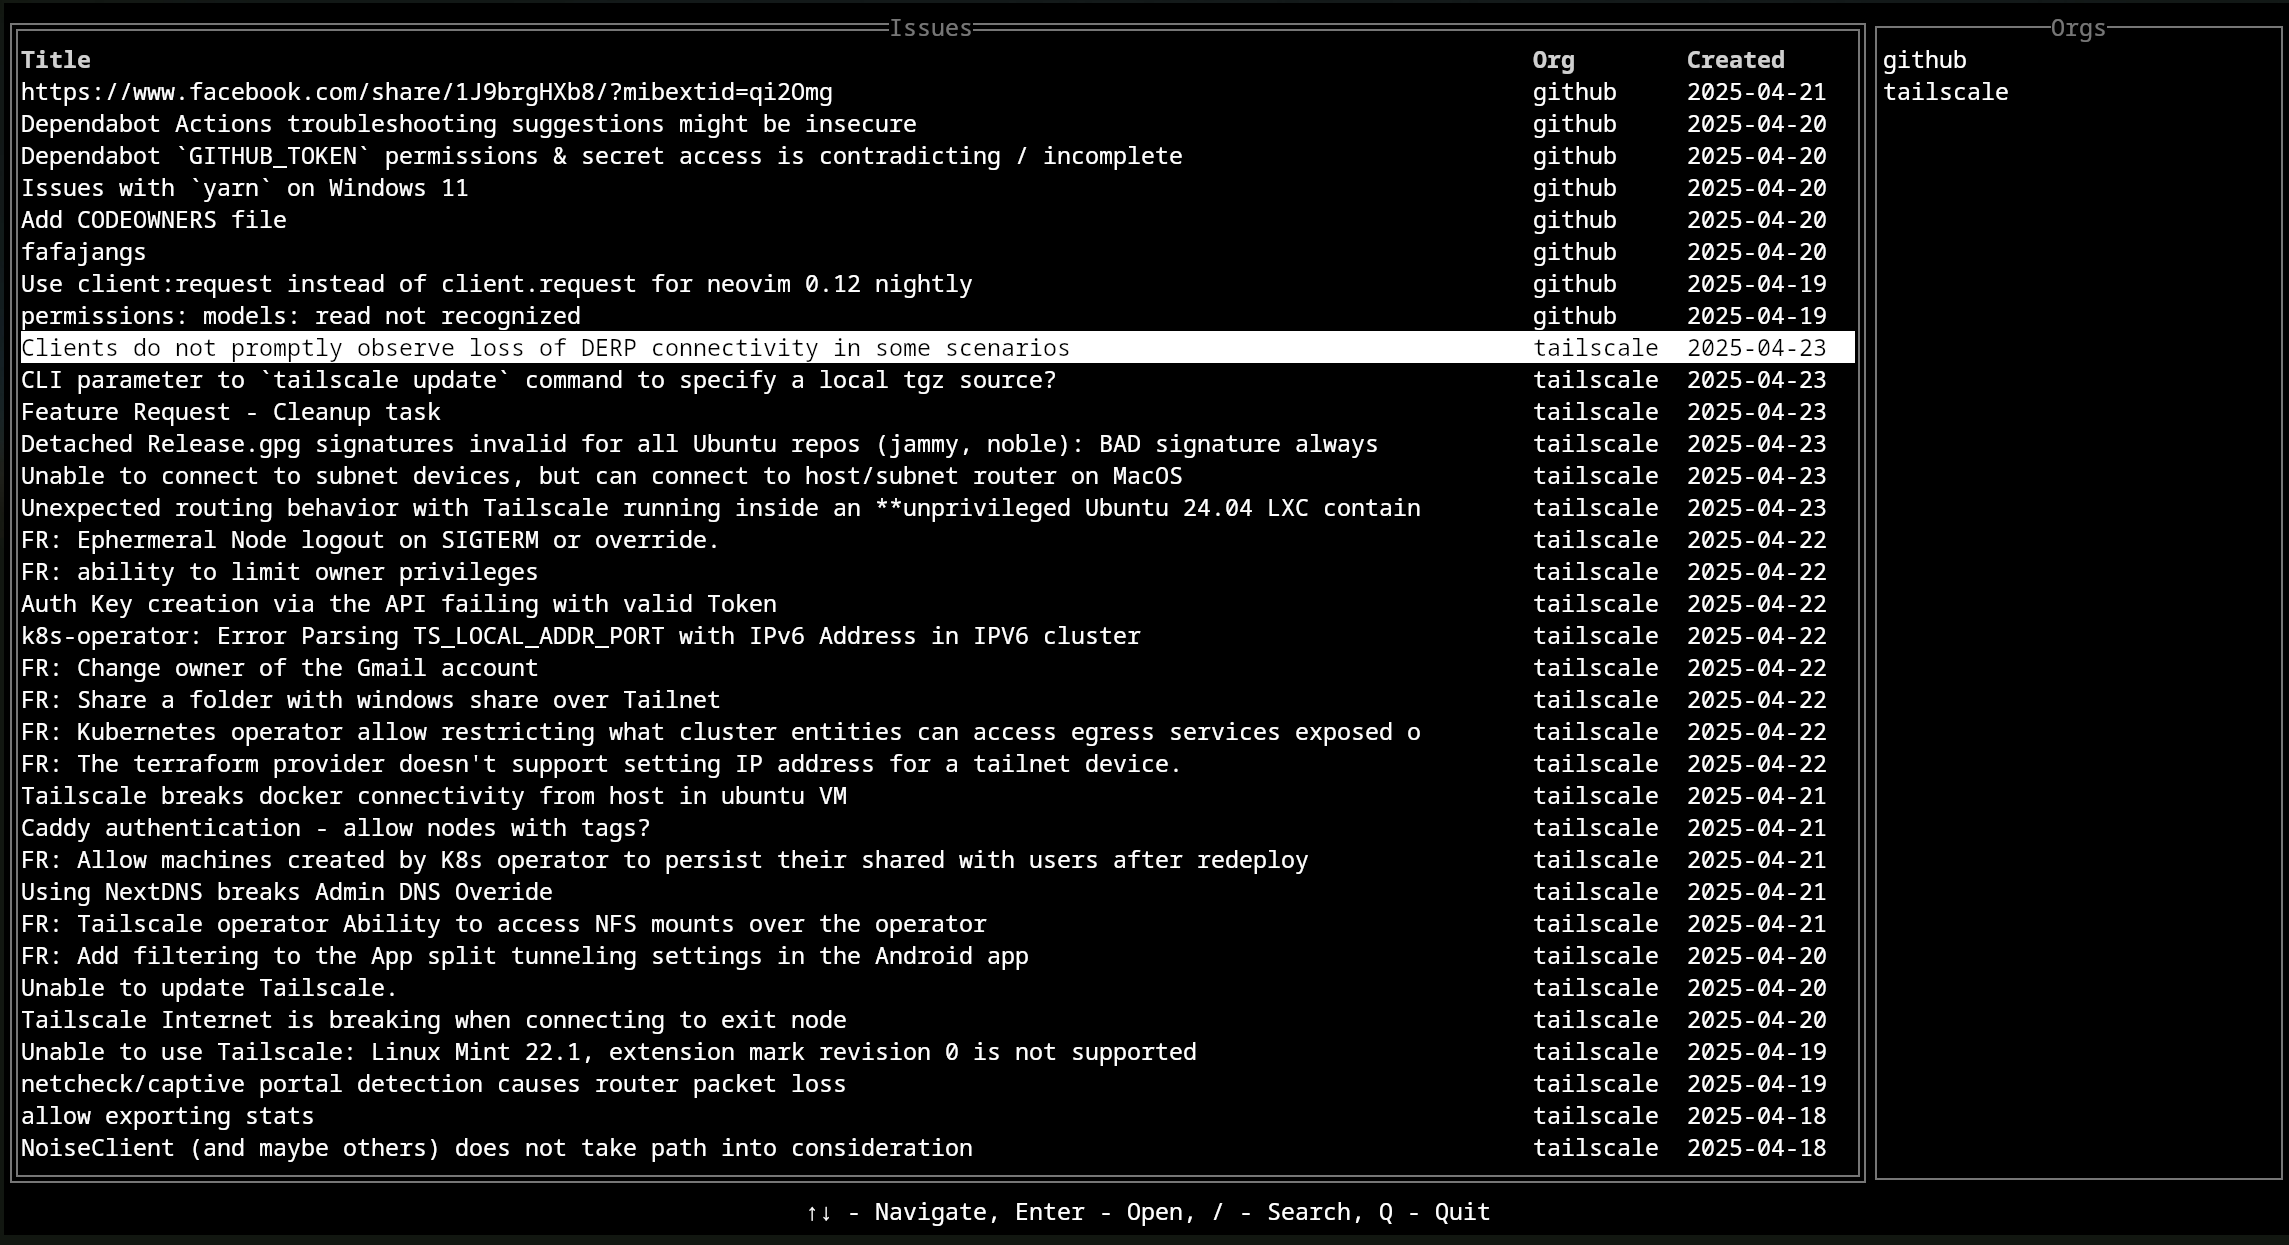
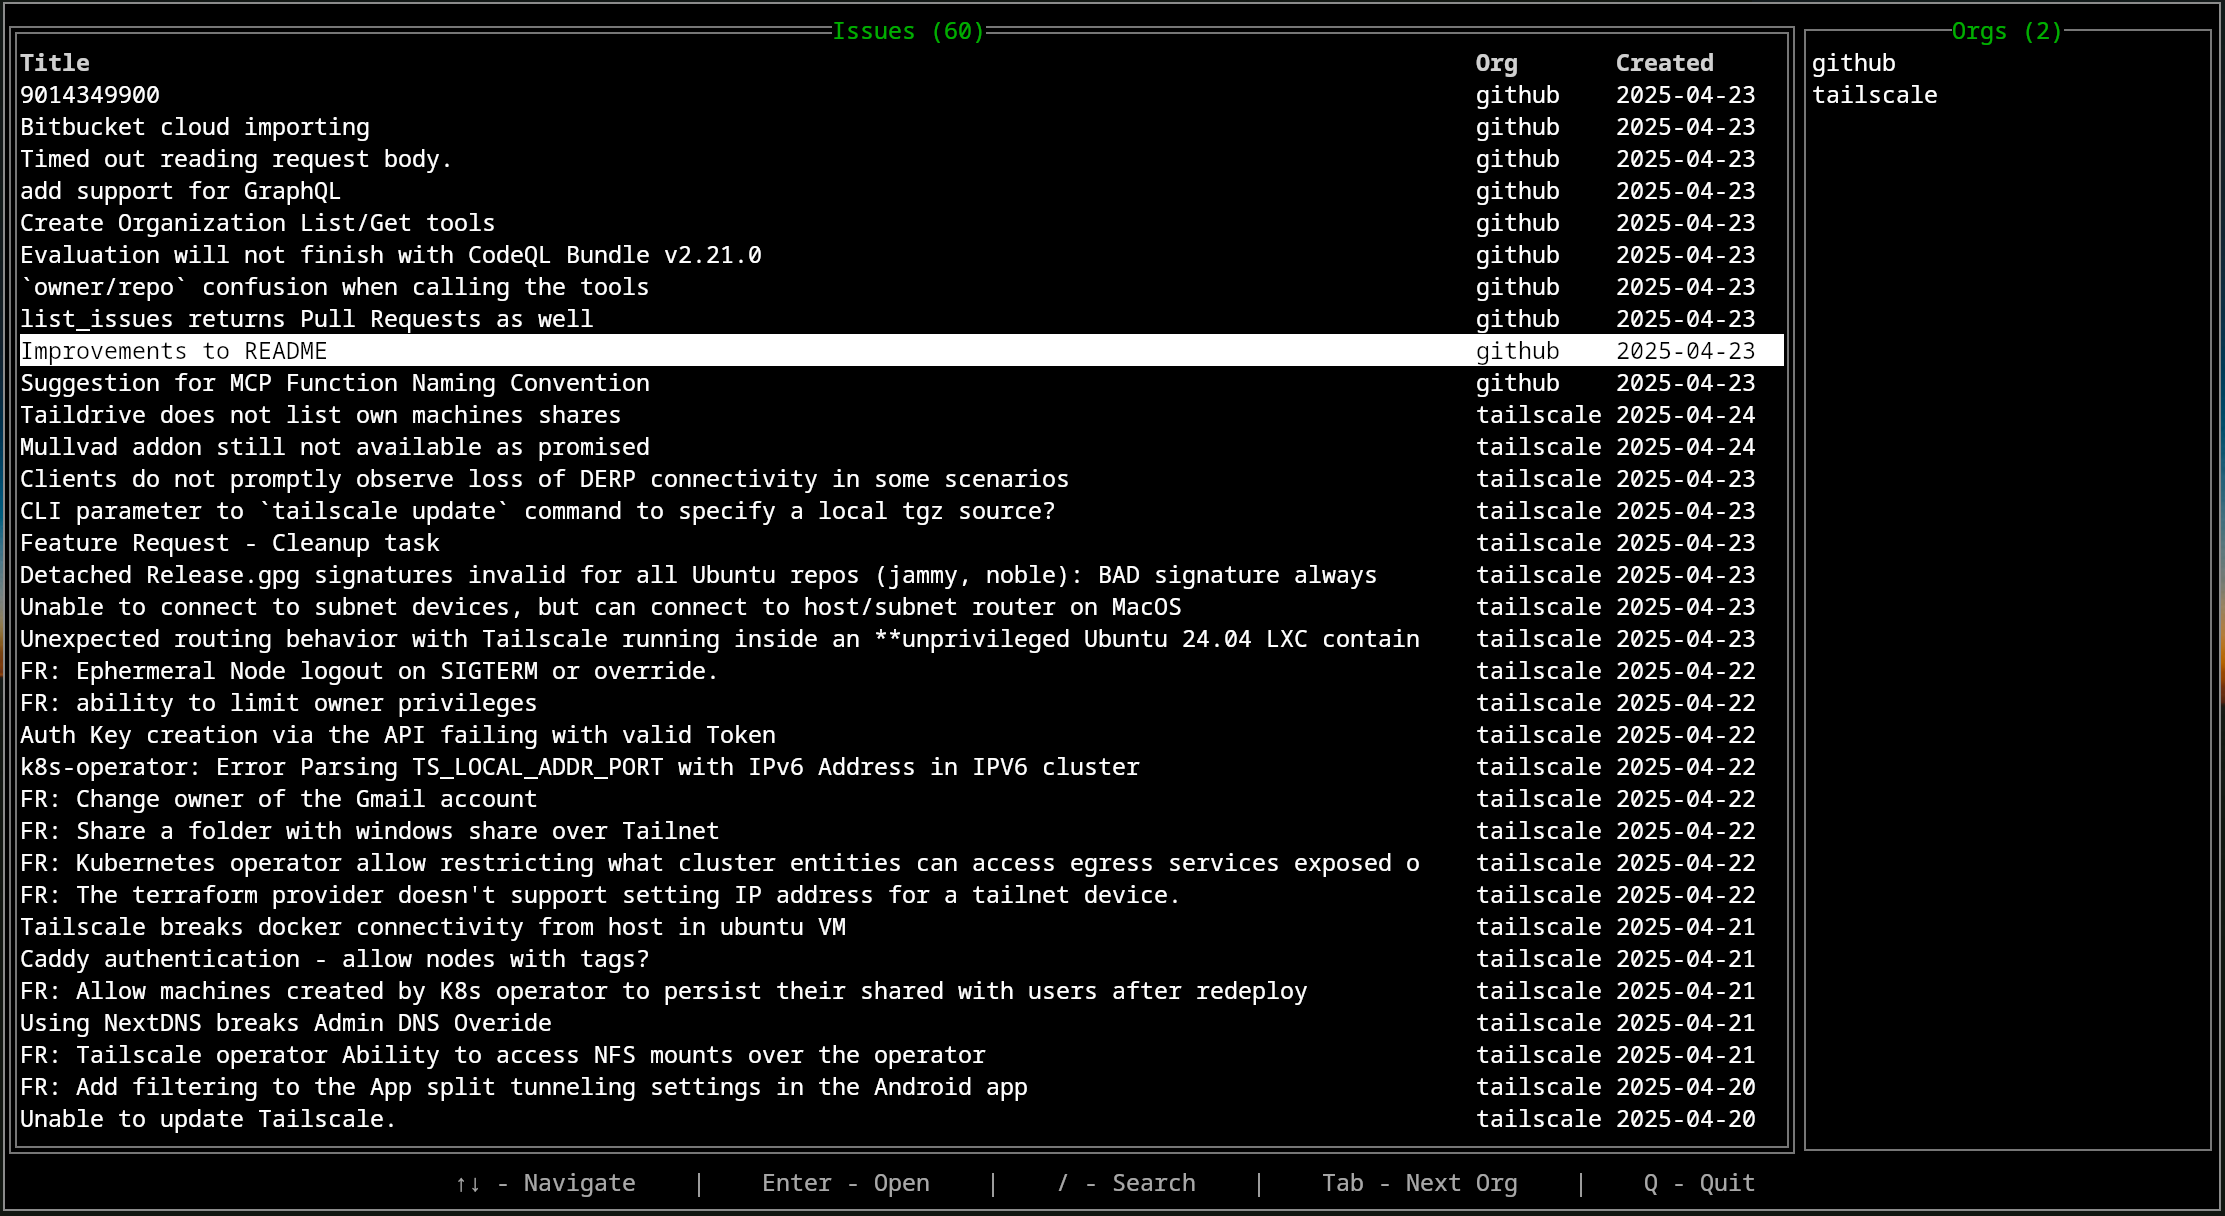
Update readme (#8)
* Update feature list in README

* Update screenshot for README

Changed region(s): [[0.0, 0.0, 1.0, 1.0], [0.5892, 0.4062, 0.6202, 0.4375], [0.4652, 0.125, 0.4962, 0.1562]]

diff --git a/README.md b/README.md
@@ -26,11 +26,8 @@ Quickly view and manage GitHub issues across multiple organizations and reposito
 
 - **List all issues**: Quickly view GitHub issues across multiple orgs and repos.
 - **Polling**: Automatic polling for the latest open issues.
-- **Search for Issues**: Search for issues using a built-in search bar.
 - **Open Issues in Browser**: Directly open issues in your default browser from the terminal.
-
-### Coming soon
-
+- **Search for Issues**: Search for issues using a built-in search bar.
 - **Filter Issues by Org**: Supports filtering issues by GitHub organization names.
 
 ---
